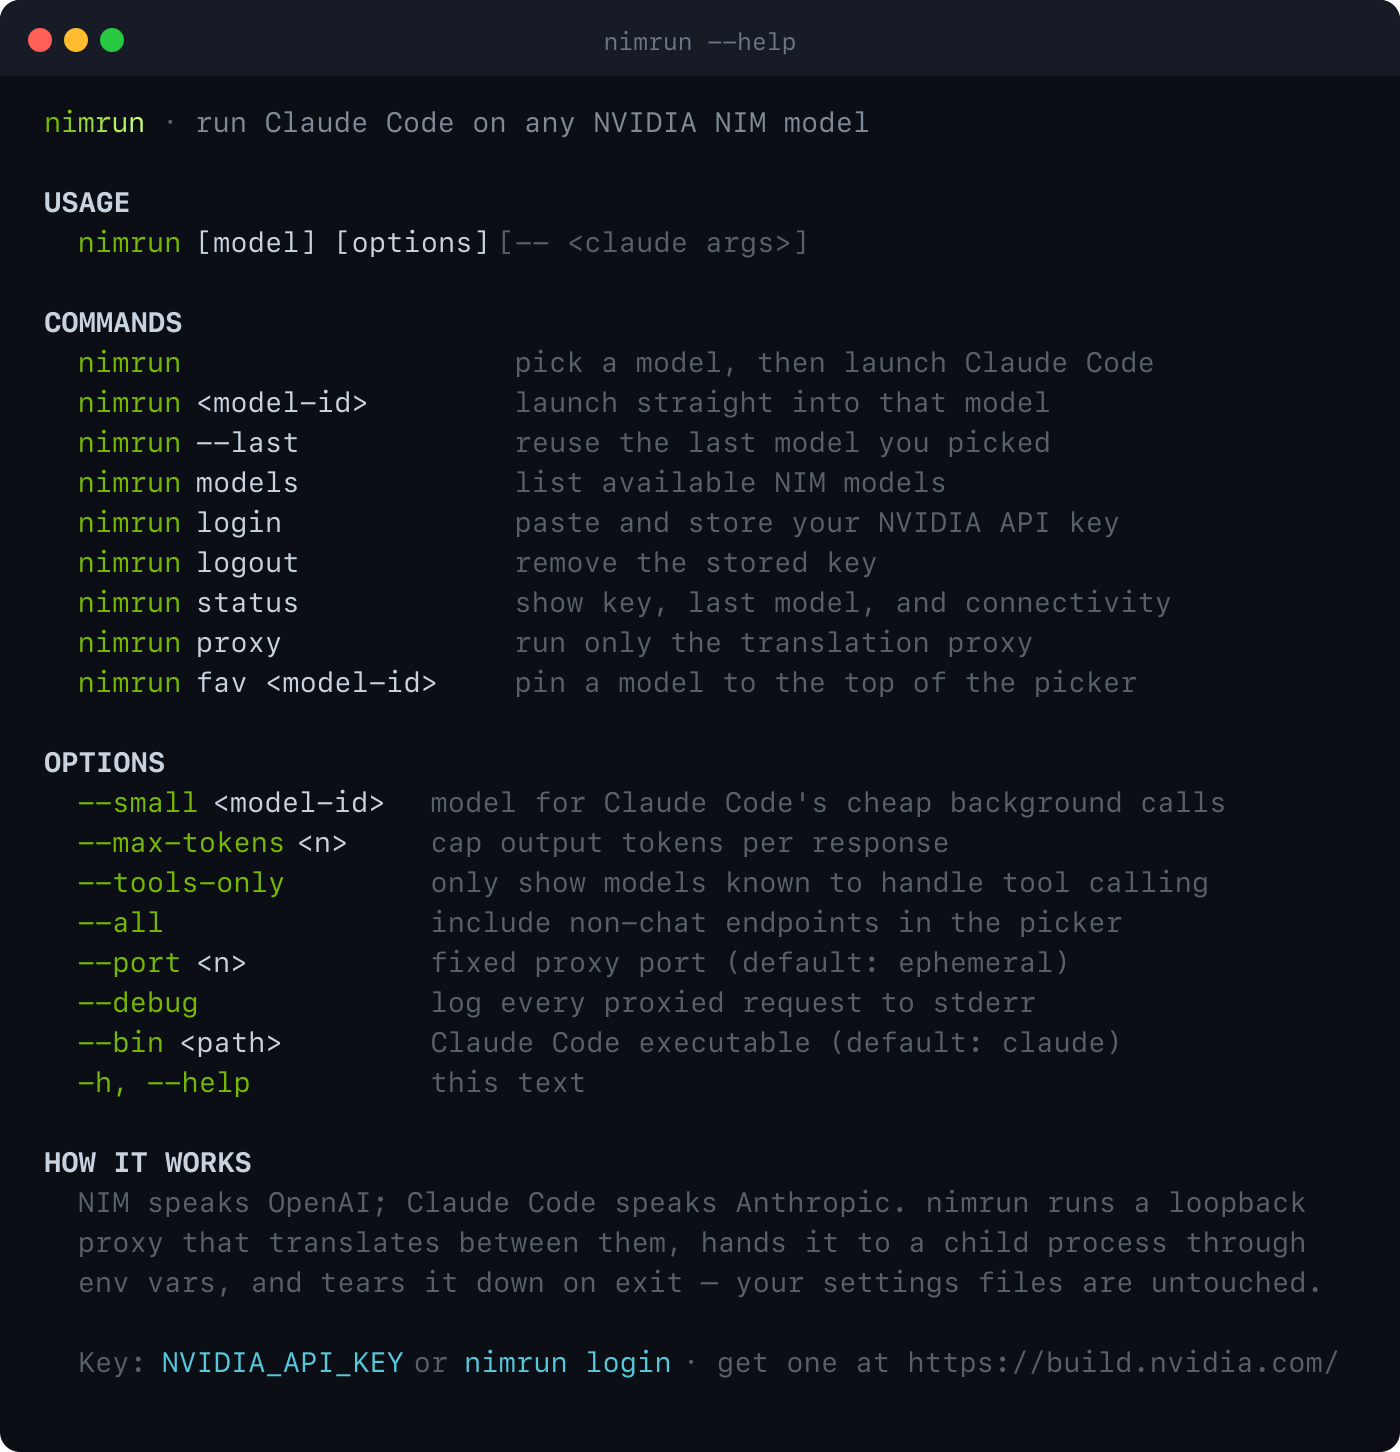
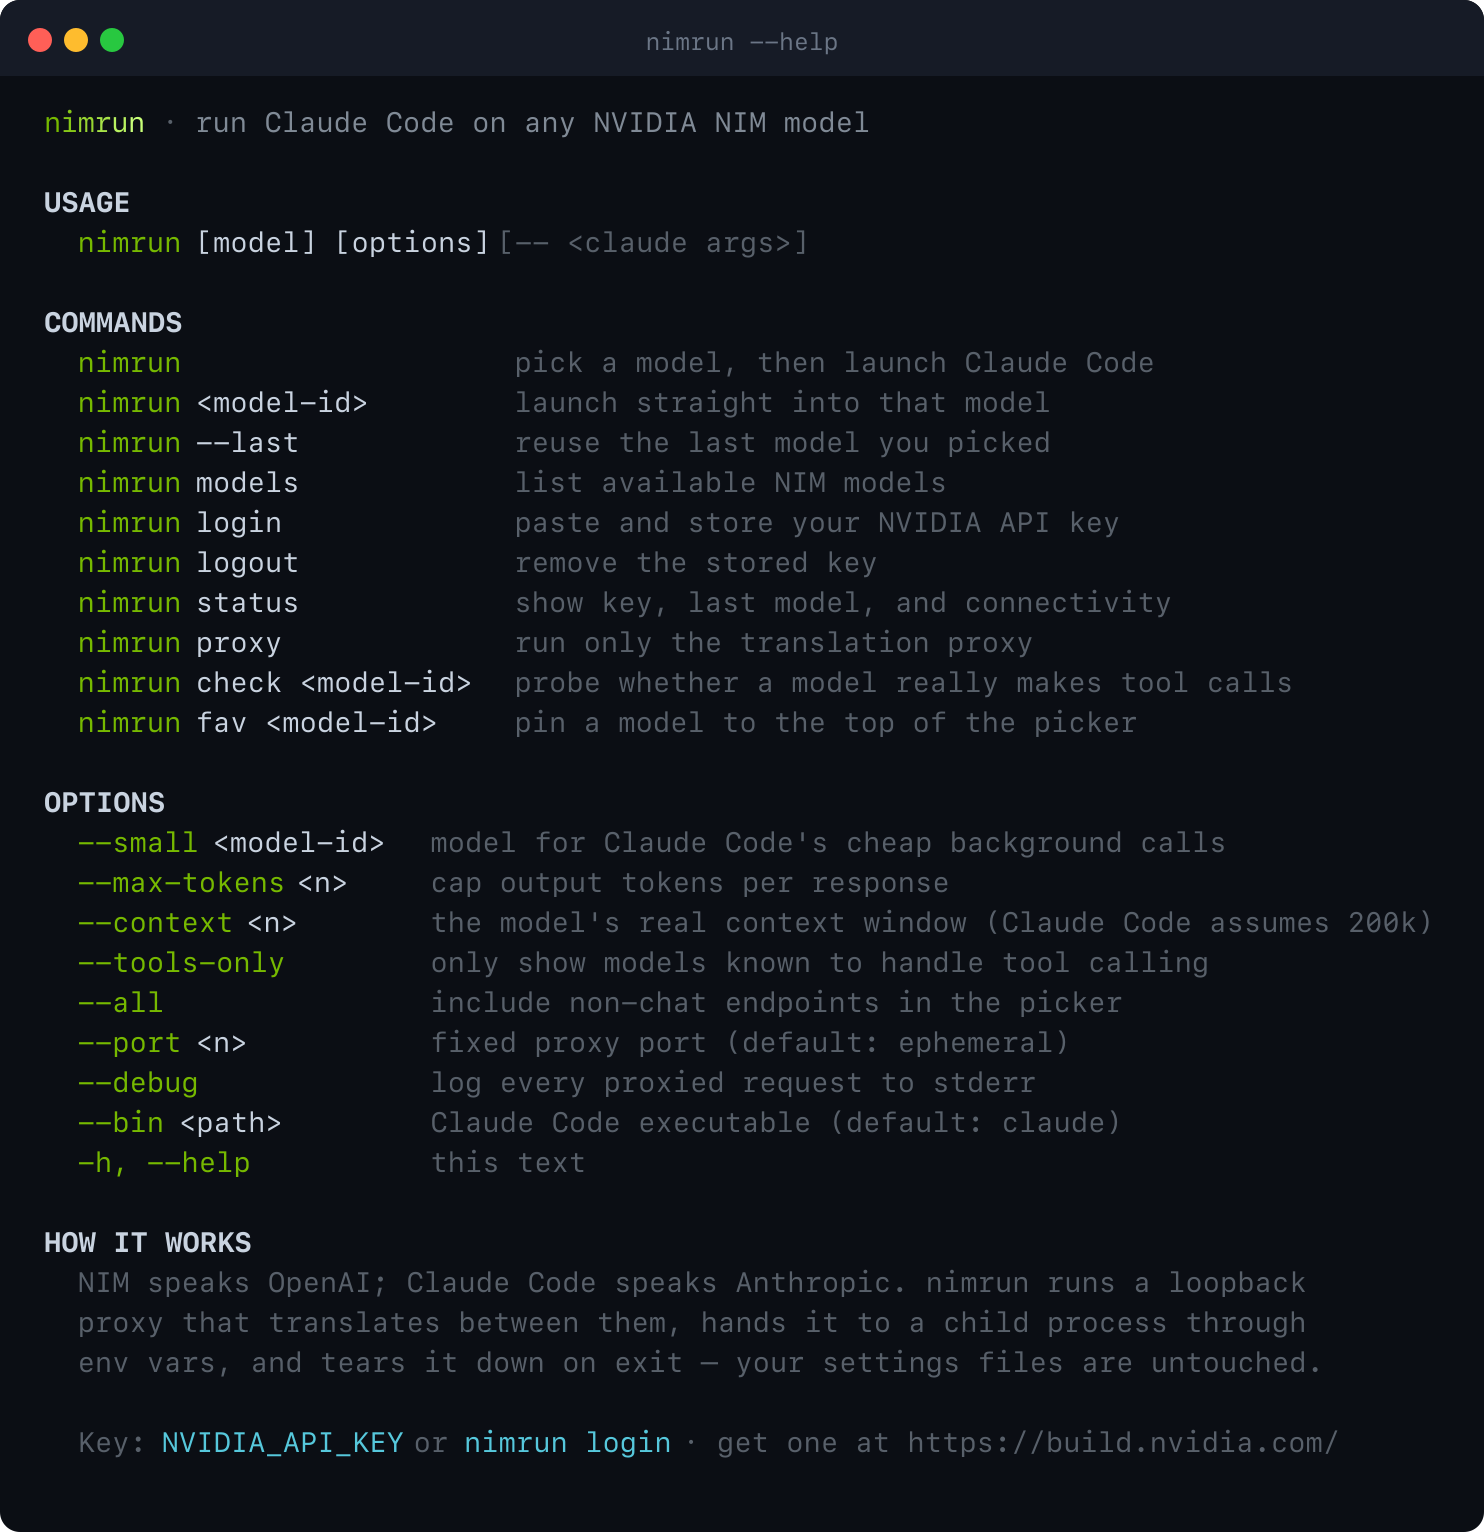
live-tested against NVIDIA NIM; probe tool support instead of guessing
Verified end to end with real models: streaming, tool calls, tool_result
round trips, and a real Claude Code file edit via nvidia/nemotron-3-super-120b-a12b.

- probe tool support with a real tool call and cache the verdict; the static
  family list wrongly warned on models that demonstrably work
- add 'nimrun check <model>' and verified/likely/no badges in the picker
- open the SSE response as soon as the upstream accepts, plus keep-alive pings:
  a cold model previously stalled clients into a headers timeout
- stop setting ANTHROPIC_API_KEY; the auth token alone is enough
- add --context for the model's real window (Claude Code assumes 200k)

diff --git a/src/cli.js b/src/cli.js
@@ -1,7 +1,7 @@
 import fs from 'node:fs';
 import { fileURLToPath } from 'node:url';
 import { loadConfig, saveConfig, resolveApiKey, CONFIG_FILE, nimBaseUrl } from './config.js';
-import { fetchModels, isChatModel, supportsTools, rankModels } from './models.js';
+import { fetchModels, isChatModel, supportsTools, probeTools, rankModels } from './models.js';
 import { select, prompt, highlight } from './picker.js';
 import { runClaude } from './run.js';
 import { createProxy, listen } from './proxy.js';
@@ -31,11 +31,13 @@ ${b('COMMANDS')}
   ${k('nimrun')} logout             ${d('remove the stored key')}
   ${k('nimrun')} status             ${d('show key, last model, and connectivity')}
   ${k('nimrun')} proxy              ${d('run only the translation proxy')}
+  ${k('nimrun')} check <model-id>   ${d('probe whether a model really makes tool calls')}
   ${k('nimrun')} fav <model-id>     ${d('pin a model to the top of the picker')}
 
 ${b('OPTIONS')}
   ${k('--small')} <model-id>   ${d("model for Claude Code's cheap background calls")}
   ${k('--max-tokens')} <n>     ${d('cap output tokens per response')}
+  ${k('--context')} <n>        ${d("the model's real context window (Claude Code assumes 200k)")}
   ${k('--tools-only')}         ${d('only show models known to handle tool calling')}
   ${k('--all')}                ${d('include non-chat endpoints in the picker')}
   ${k('--port')} <n>           ${d('fixed proxy port (default: ephemeral)')}
@@ -69,6 +71,7 @@ export function parseArgs(argv) {
     else if (a === '--no-banner') opts.flags.noBanner = true;
     else if (a === '--small') opts.flags.small = own[++i];
     else if (a === '--max-tokens') opts.flags.maxTokens = Number.parseInt(own[++i], 10);
+    else if (a === '--context') opts.flags.context = Number.parseInt(own[++i], 10);
     else if (a === '--port') opts.flags.port = Number.parseInt(own[++i], 10);
     else if (a === '--bin') opts.flags.bin = own[++i];
     else if (a.startsWith('-')) throw new Error(`unknown option: ${a}`);
@@ -104,7 +107,10 @@ async function loadCatalog(key, flags) {
     die(err.message);
   }
   let list = flags.all ? models : models.filter((m) => isChatModel(m.id));
-  if (flags.toolsOnly) list = list.filter((m) => supportsTools(m.id));
+  if (flags.toolsOnly) {
+    const checks = loadConfig().toolChecks;
+    list = list.filter((m) => (checks[m.id] ? checks[m.id].ok : supportsTools(m.id)));
+  }
   spin.stop();
   if (!list.length) die('no models matched those filters. Try --all.');
   return list;
@@ -122,7 +128,10 @@ function makeRenderer(cfg) {
     const badges = [];
     if (m.id === cfg.lastModel) badges.push(ui.cyan('last'));
     if (cfg.favorites.includes(m.id)) badges.push(ui.amber(g.star));
-    if (supportsTools(m.id)) badges.push(ui.fg(ui.GREEN, 'tools'));
+    const checked = cfg.toolChecks[m.id];
+    if (checked?.ok) badges.push(ui.fg(ui.GREEN, ui.bold('tools')));
+    else if (checked) badges.push(ui.red('no tools'));
+    else if (supportsTools(m.id)) badges.push(ui.fg(ui.GREEN, 'tools?'));
 
     const label = active ? ui.bold(name) : name;
     const tail = badges.length ? `  ${ui.faint('[')}${badges.join(ui.faint('·'))}${ui.faint(']')}` : '';
@@ -206,6 +215,20 @@ export async function main(argv) {
     return 0;
   }
 
+  if (cmd === 'check') {
+    const id = opts._[1] || cfg.lastModel;
+    if (!id) die('usage: nimrun check <model-id>');
+    const key = needKey();
+    const spin = ui.spinner(`asking ${id} to make a tool call…`);
+    const verdict = await probeTools(key, id);
+    spin.stop();
+    saveConfig({ toolChecks: { ...cfg.toolChecks, [id]: verdict } });
+    ui.write(verdict.ok
+      ? ui.ok(`${ui.bold(id)} makes tool calls ${ui.faint('— usable with Claude Code')}\n`)
+      : ui.warn(`${ui.bold(id)} did not make a tool call: ${verdict.reason}\n`));
+    return verdict.ok ? 0 : 1;
+  }
+
   if (cmd === 'fav') {
     const id = opts._[1];
     if (!id) die('usage: nimrun fav <model-id>');
@@ -228,7 +251,7 @@ export async function main(argv) {
       const chosen = await select({
         items: list,
         label: 'NVIDIA NIM',
-        hint: `${ui.fg(ui.GREEN, 'tools')} = known tool-calling ${g.dot} ${ui.amber(g.star)} = pinned`,
+        hint: `${ui.fg(ui.GREEN, ui.bold('tools'))} = verified ${g.dot} ${ui.fg(ui.GREEN, 'tools?')} = likely ${g.dot} ${ui.amber(g.star)} = pinned`,
         render: makeRenderer(cfg),
       });
       model = chosen.id;
@@ -240,6 +263,7 @@ export async function main(argv) {
 
   const smallModel = flags.small || cfg.smallModel || model;
   const maxTokens = flags.maxTokens || cfg.maxTokens || null;
+  const contextTokens = flags.context || cfg.contextTokens || null;
   saveConfig({ lastModel: model });
 
   if (cmd === 'proxy') {
@@ -261,16 +285,25 @@ export async function main(argv) {
     return 0;
   }
 
-  if (!supportsTools(model)) {
+  // Claude Code is useless without tool calls, and a family name does not prove
+  // support — so the first time a model is used, ask it to make one.
+  let verdict = cfg.toolChecks[model];
+  if (!verdict) {
+    const spin = ui.spinner(`checking whether ${model} makes tool calls…`);
+    verdict = await probeTools(key, model);
+    spin.stop();
+    saveConfig({ toolChecks: { ...loadConfig().toolChecks, [model]: verdict } });
+  }
+  if (!verdict.ok) {
     ui.write(ui.warn(
-      `${ui.bold(model)} is not in the known tool-calling list.\n` +
-      `  ${ui.faint('Claude Code needs tool calls to edit files; this model may only chat.')}\n` +
-      `  ${ui.faint('Use --tools-only to filter the picker.')}\n`
+      `${ui.bold(model)} did not make a tool call when asked: ${verdict.reason}.\n` +
+      `  ${ui.faint('Claude Code needs tool calls to read and edit files, so it will likely')}\n` +
+      `  ${ui.faint('be unable to do real work with this model. Re-check with')} ${ui.cyan(`nimrun check ${model}`)}${ui.faint('.')}\n`
     ));
   }
 
   return runClaude({
     apiKey: key, model, smallModel, maxTokens,
-    claudeArgs, debug: flags.debug, bin: flags.bin || 'claude', port: flags.port,
+    claudeArgs, debug: flags.debug, bin: flags.bin || 'claude', port: flags.port, contextTokens,
   });
 }

diff --git a/src/models.js b/src/models.js
@@ -37,27 +37,83 @@ export function isChatModel(id) {
   return !NON_CHAT.some((k) => s.includes(k));
 }
 
-// Families that are known to handle the tool-calling loop Claude Code depends on.
+// Families that generally handle the tool-calling loop Claude Code depends on.
+// This is only a first guess for sorting: the catalog changes often and a family
+// name is not a capability, so `probeTools` is what actually decides.
 const TOOL_FAMILIES = [
-  'moonshotai/kimi', 'deepseek-ai/deepseek-v3', 'deepseek-ai/deepseek-r1',
-  'qwen/qwen3', 'qwen/qwen2.5', 'meta/llama-3.3', 'meta/llama-4',
-  'nvidia/llama-3.3-nemotron', 'nvidia/llama-3.1-nemotron', 'mistralai/mistral-large',
-  'mistralai/mixtral', 'openai/gpt-oss', 'zai-org/glm', 'writer/palmyra',
-  'nvidia/nvidia-nemotron', 'google/gemma-3',
+  'nvidia/nemotron-3', 'nvidia/nvidia-nemotron', 'nvidia/llama-3.3-nemotron', 'nvidia/llama-3.1-nemotron',
+  'openai/gpt-oss', 'z-ai/glm', 'zai-org/glm', 'moonshotai/kimi', 'minimaxai/minimax',
+  'deepseek-ai/deepseek-v', 'qwen/qwen', 'meta/llama-3.3', 'meta/llama-4',
+  'mistralai/mistral-large', 'mistralai/mistral-nemotron', 'mistralai/mixtral',
+  'stepfun-ai/step', 'poolside/laguna', 'thinkingmachines/', 'writer/palmyra',
 ];
+
+// Endpoints in those families that are not general chat models.
+const NOT_AGENTIC = ['guard', 'reward', 'safety', 'parse', 'calibration', '-vl-', '-vl', 'detector'];
 
 export function supportsTools(id) {
   const s = String(id).toLowerCase();
+  if (NOT_AGENTIC.some((k) => s.includes(k))) return false;
   return TOOL_FAMILIES.some((k) => s.startsWith(k));
 }
 
+/**
+ * Asks the model to make one trivial tool call. This is the only reliable way to
+ * know: NIM's /v1/models reports no capabilities, and it lists models the account
+ * cannot even invoke.
+ */
+export async function probeTools(apiKey, model, { signal, timeoutMs = 60000 } = {}) {
+  const ac = new AbortController();
+  const timer = setTimeout(() => ac.abort(), timeoutMs);
+  if (signal) signal.addEventListener('abort', () => ac.abort(), { once: true });
+  try {
+    const res = await fetch(`${nimBaseUrl()}/chat/completions`, {
+      method: 'POST',
+      headers: { Authorization: `Bearer ${apiKey}`, 'Content-Type': 'application/json' },
+      signal: ac.signal,
+      body: JSON.stringify({
+        model,
+        max_tokens: 64,
+        temperature: 0,
+        messages: [{ role: 'user', content: 'Call the ping tool with value 1. Use the tool; do not answer in prose.' }],
+        tools: [{
+          type: 'function',
+          function: {
+            name: 'ping',
+            description: 'Respond to a ping.',
+            parameters: { type: 'object', properties: { value: { type: 'number' } }, required: ['value'] },
+          },
+        }],
+        tool_choice: 'auto',
+      }),
+    });
+    if (!res.ok) {
+      const body = await res.text().catch(() => '');
+      const detail = /Not found for account/.test(body)
+        ? 'listed in the catalog but not enabled for this account'
+        : `HTTP ${res.status}`;
+      return { ok: false, reachable: false, reason: detail };
+    }
+    const json = await res.json();
+    const calls = json?.choices?.[0]?.message?.tool_calls;
+    return { ok: Array.isArray(calls) && calls.length > 0, reachable: true, reason: 'answered in prose instead of calling the tool' };
+  } catch (err) {
+    return { ok: false, reachable: false, reason: err.name === 'AbortError' ? `no response within ${timeoutMs / 1000}s` : err.message };
+  } finally {
+    clearTimeout(timer);
+  }
+}
+
 // Ranks the picker so the models that actually survive an agentic session float up.
-export function rankModels(models, { favorites = [], lastModel = null } = {}) {
+export function rankModels(models, { favorites = [], lastModel = null, toolChecks = {} } = {}) {
   const score = (m) => {
     let n = 0;
     if (m.id === lastModel) n += 1000;
     if (favorites.includes(m.id)) n += 500;
-    if (supportsTools(m.id)) n += 100;
+    const checked = toolChecks[m.id];
+    if (checked?.ok) n += 200;
+    else if (checked && !checked.ok) n -= 400;
+    else if (supportsTools(m.id)) n += 100;
     if (/coder|code/.test(m.id)) n += 20;
     return n;
   };

diff --git a/src/run.js b/src/run.js
@@ -12,7 +12,7 @@ const { glyph: g } = ui;
  */
 export async function runClaude({
   apiKey, model, smallModel, maxTokens,
-  claudeArgs = [], debug = false, bin = 'claude', port: fixedPort = 0,
+  claudeArgs = [], debug = false, bin = 'claude', port: fixedPort = 0, contextTokens = null,
 }) {
   const token = crypto.randomBytes(24).toString('hex');
   const stats = { requests: 0, inputTokens: 0, outputTokens: 0, errors: 0 };
@@ -23,7 +23,6 @@ export async function runClaude({
     ...process.env,
     ANTHROPIC_BASE_URL: `http://127.0.0.1:${port}`,
     ANTHROPIC_AUTH_TOKEN: token,
-    ANTHROPIC_API_KEY: token,
     ANTHROPIC_MODEL: model,
     ANTHROPIC_DEFAULT_OPUS_MODEL: model,
     ANTHROPIC_DEFAULT_SONNET_MODEL: model,
@@ -34,13 +33,19 @@ export async function runClaude({
     NIMRUN_MODEL: model,
   };
   // A stale credential in the ambient environment would outrank our local token.
+  // ANTHROPIC_API_KEY in particular makes Claude Code disable claude.ai connectors,
+  // so the auth token is the only credential we set.
+  delete env.ANTHROPIC_API_KEY;
   delete env.ANTHROPIC_AUTH_TOKEN_FILE;
   if (maxTokens) env.CLAUDE_CODE_MAX_OUTPUT_TOKENS = String(maxTokens);
+  // Claude Code does not know NIM model ids, so it assumes a 200k window unless told.
+  if (contextTokens) env.CLAUDE_CODE_MAX_CONTEXT_TOKENS = String(contextTokens);
 
   const rows = [['model', ui.fg(ui.GLOW, model)]];
   if (smallModel && smallModel !== model) rows.push(['fast', smallModel]);
   rows.push(['proxy', `127.0.0.1:${port}  ${ui.faint(`anthropic ${g.swap} openai`)}`]);
   if (maxTokens) rows.push(['max out', String(maxTokens)]);
+  if (contextTokens) rows.push(['context', contextTokens.toLocaleString('en-US')]);
   ui.write(ui.card(rows, { title: `${g.bullet} session` }));
   ui.write(`  ${ui.faint(`starting ${bin} ${g.dot} settings restored on exit`)}\n\n`);
 

diff --git a/src/proxy.js b/src/proxy.js
@@ -114,14 +114,22 @@ export function createProxy({ apiKey, model, smallModel, maxTokens, token, debug
     const writer = new AnthropicStreamWriter(res, body.model || target);
     const parser = createSSEParser((payload) => writer.chunk(payload));
 
+    // Open the SSE response as soon as the upstream accepts the request. A cold
+    // NIM model can take minutes to emit its first token, and a client that has
+    // not seen response headers by then gives up with a headers timeout.
+    writer.start();
+    const ping = setInterval(() => writer.ping(), 15000);
+
     try {
       const decoder = new TextDecoder();
       for await (const piece of upstreamRes.body) {
         parser.push(decoder.decode(piece, { stream: true }));
       }
+      clearInterval(ping);
       writer.end();
       count(writer.usage);
     } catch (err) {
+      clearInterval(ping);
       if (abort.signal.aborted) return;
       if (stats) stats.errors += 1;
       writer.fail(err.message);

diff --git a/src/stream.js b/src/stream.js
@@ -51,6 +51,12 @@ export class AnthropicStreamWriter {
     });
   }
 
+  /** Keeps the connection warm while a cold model spins up. */
+  ping() {
+    if (this.ended) return;
+    this.#send('ping', { type: 'ping' });
+  }
+
   #closeBlock() {
     if (this.openBlock === null) return;
     this.#send('content_block_stop', { type: 'content_block_stop', index: this.index });

diff --git a/src/config.js b/src/config.js
@@ -15,6 +15,8 @@ const DEFAULTS = {
   favorites: [],
   smallModel: null,
   maxTokens: null,
+  contextTokens: null,
+  toolChecks: {},
 };
 
 export function loadConfig() {

diff --git a/README.md b/README.md
@@ -68,6 +68,7 @@ nimrun qwen/qwen3-coder-480b-a35b-instruct
 nimrun --tools-only                 # only models known to do tool calling
 nimrun models                       # print the catalog (plain stdout, pipe-safe)
 nimrun status                       # key, endpoint, connectivity, last model
+nimrun check z-ai/glm-5.2           # ask a model to make a real tool call
 nimrun fav moonshotai/kimi-k2-instruct   # pin to the top of the picker
 nimrun -- -p "summarize this repo"  # everything after -- goes to claude
 ```
@@ -93,6 +94,7 @@ Claude Code runs normally from here. On exit you get the tally, and the proxy is
 |---|---|
 | `--small <id>` | model for Claude Code's cheap background calls (titles, summaries) |
 | `--max-tokens <n>` | cap output tokens per response |
+| `--context <n>` | the model's real context window (Claude Code otherwise assumes 200k) |
 | `--tools-only` | only list models known to handle tool calling |
 | `--all` | include non-chat endpoints (embedding, rerank, vision) in the picker |
 | `--port <n>` | fixed proxy port instead of an ephemeral one |
@@ -117,13 +119,33 @@ eval "$(nimrun proxy meta/llama-3.3-70b-instruct)"
 
 ## Choosing a model
 
-Claude Code is an agentic tool: it is only useful with a model that reliably emits tool
-calls. `nimrun` tags those `[tools]` in the picker and sorts them first, `--tools-only`
-hides the rest, and picking an untagged model prints a warning. Models that stream a
-`<think>` scratchpad have it stripped before it reaches Claude Code.
+Claude Code is an agentic tool: it is useless with a model that will not emit tool
+calls. Family names do not prove support and NIM's catalog reports no capabilities, so
+`nimrun` **asks the model directly** — one tiny tool call, the first time you use it:
 
-Tool-call reliability still varies a lot between models — one that chats well can still
-fail to edit files. Try a few.
+```
+$ nimrun check nvidia/nemotron-3-super-120b-a12b
+✔ nvidia/nemotron-3-super-120b-a12b makes tool calls — usable with Claude Code
+
+$ nimrun check moonshotai/kimi-k2.6
+▲ moonshotai/kimi-k2.6 did not make a tool call: listed in the catalog but not
+  enabled for this account
+```
+
+Verdicts are cached in `~/.nimrun/config.json`, so the picker shows what is real:
+
+| Badge | Meaning |
+|---|---|
+| **`tools`** | probed and confirmed to make tool calls |
+| `tools?` | family suggests it should — not probed yet |
+| `no tools` | probed and it did not |
+
+`--tools-only` filters on the cached verdicts, falling back to the family guess for
+models you have not probed. Models that stream a `<think>` scratchpad have it stripped
+before it reaches Claude Code.
+
+Tool-call reliability still varies between models that pass the probe — one that makes
+a clean call once can still lose the thread on a long agentic session. Try a few.
 
 ## Terminal output
 
@@ -146,6 +168,13 @@ Everything decorative goes to **stderr**, so `nimrun models | grep coder` and
   tools are Anthropic-side features with no NIM equivalent; they are dropped, not faked.
 - `count_tokens` returns a character-based estimate — NIM has no token counting endpoint.
 - Rate limits and per-model quotas are NVIDIA's; `nimrun` passes `429`s straight through.
+- The catalog over-reports: `/v1/models` lists models your account cannot invoke, which
+  come back as `Not found for account`. `nimrun check` names that case explicitly.
+- A cold NIM model can take minutes to emit its first token. `nimrun` opens the response
+  stream as soon as the upstream accepts the request and sends keep-alive pings, so the
+  client does not time out waiting for headers.
+- Claude Code prints a notice that claude.ai connectors are disabled whenever an auth
+  source is set. That is unavoidable — pointing it at a different provider *is* setting one.
 - Your prompts and code go to NVIDIA's servers, under NVIDIA's terms — not Anthropic's.
 
 ## Development
